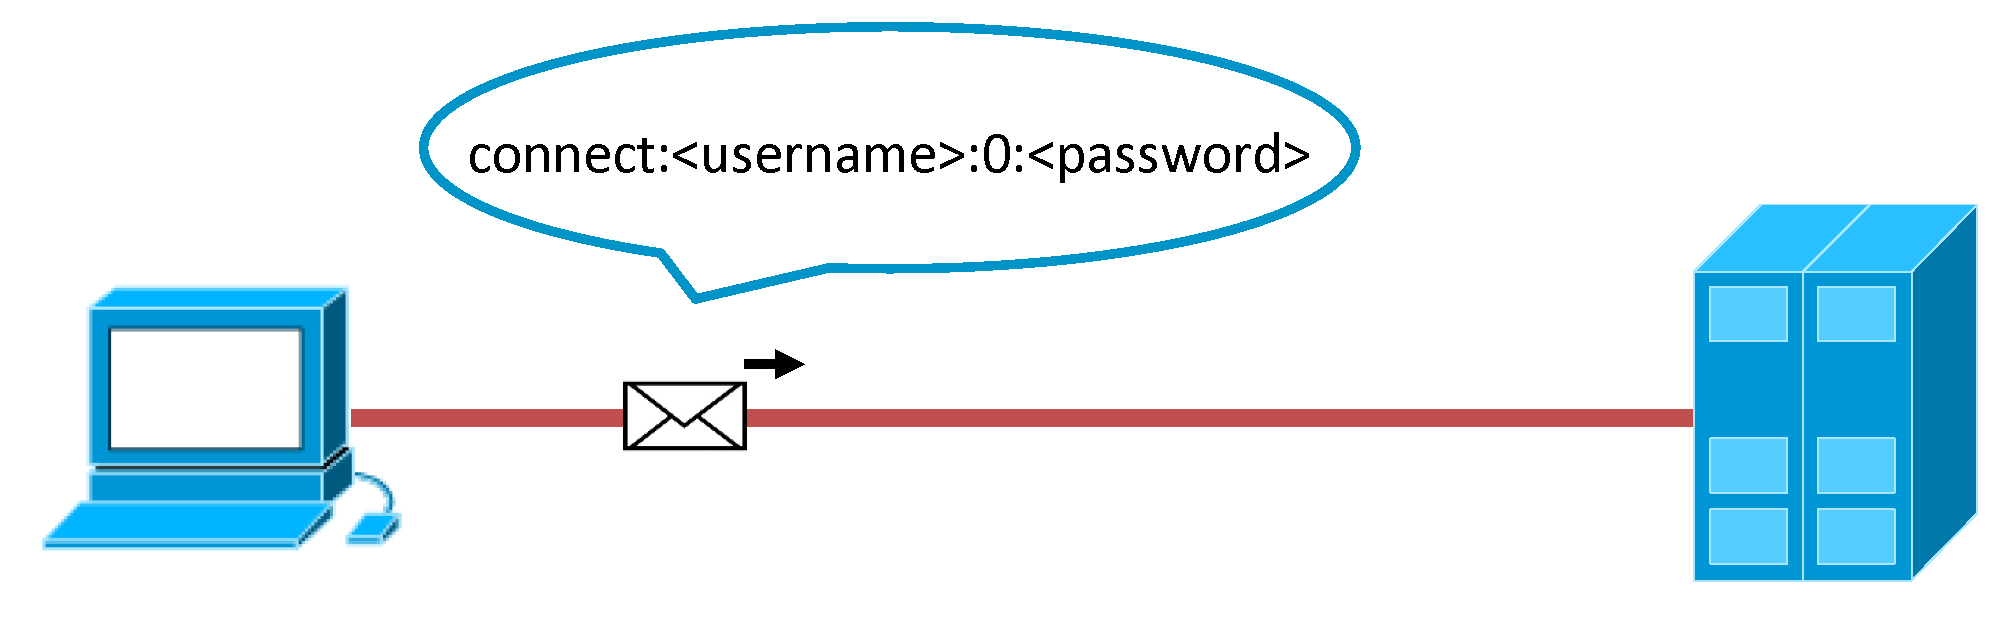
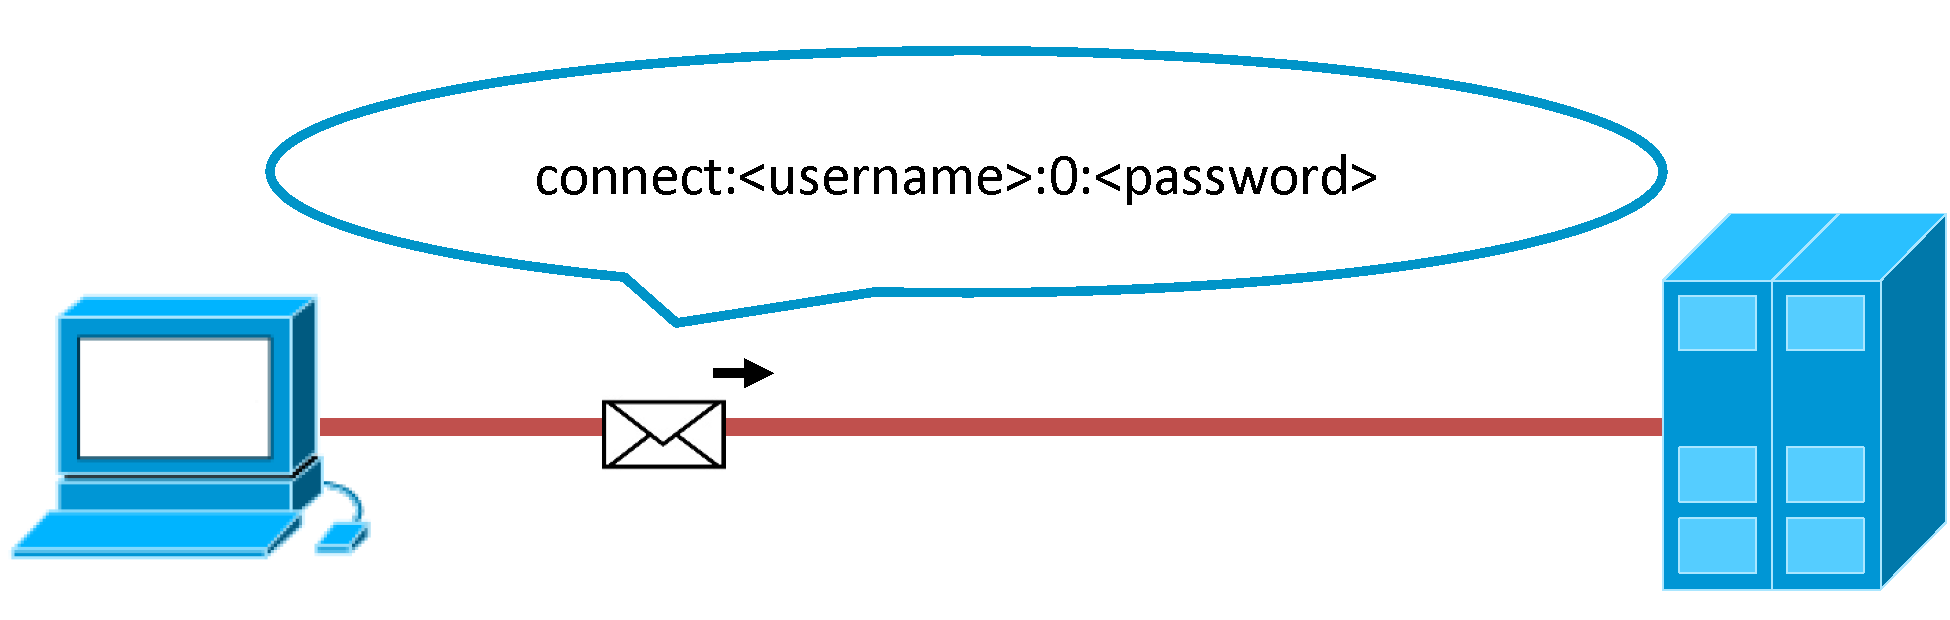
Bilder für Doku angepasst, sodass sie jetzt exakt die gleiche Größe haben

diff --git a/documentation/Projektdokumentation/Projektdokumentation.tex b/documentation/Projektdokumentation/Projektdokumentation.tex
@@ -323,7 +323,7 @@ Der Server gibt diese Intention dem requestierten Benutzer weiter, sollte dieser
 \vspace{1em}
 \begin{minipage}{\linewidth}
 	\centering
-	\includegraphics[width=0.78\linewidth]{img/addcontact2.png}
+	\includegraphics[width=0.7\linewidth]{img/addcontact2.png}
 	\label{fig:addcontact2}
 \end{minipage}
 \vspace{0.5em}
@@ -868,13 +868,7 @@ Sobald alle 14 Bits eines Telegramms empfangen wurden und das neue Togglebit sic
 Nachdem es nun möglich ist, Kommandos über die Fernbedienung zu erhalten, müssen diese an die Steuerung eines Teatimer gekoppelt werden. Die grundlegenden Funktionen und der Aufbau eines Teatimers sind bei der Aufgabe \ref{VersuchTeatimer} aufgeführt.\newline
 Es wurde eine Zustandsmaschine entworfen, welche die einzelnen Aktionen nach Erhalt eines Kommandos festlegt.
 
-\vspace{1em}
-\begin{minipage}{\linewidth}
-	\centering
-	\includegraphics[width=1\linewidth]{img/Zustandsdiagramm.pdf}
-	\captionof{figure}{Zustandsautomat des Teatimers}
-	\label{fig:StateMachine}
-\end{minipage}
+
 
 Wie der Abbildung \ref{fig:StateMachine} zu entnehmen ist, gibt es vier Zustände in denen sich der Teatimer befinden kann. Die Auswirkung der Zustände teilt sich in drei Aspekte auf:
 \begin{itemize}
